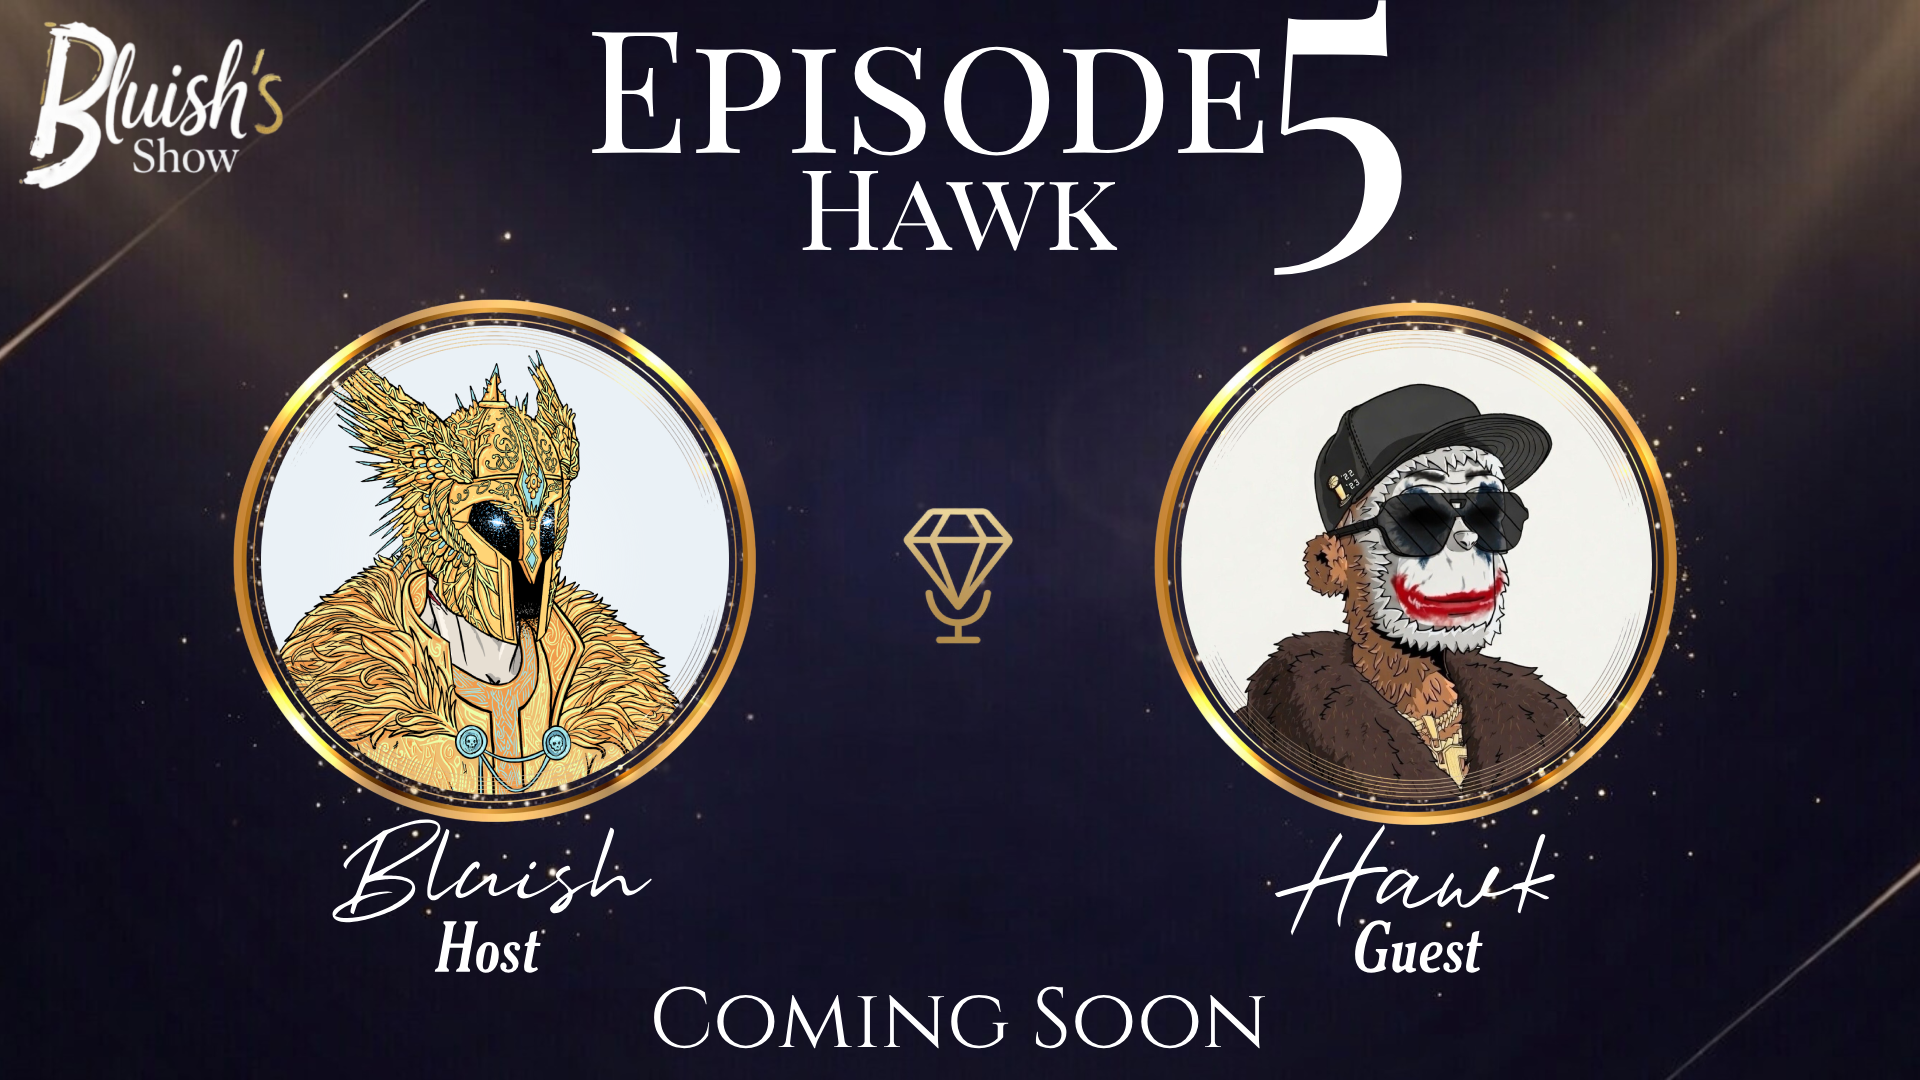
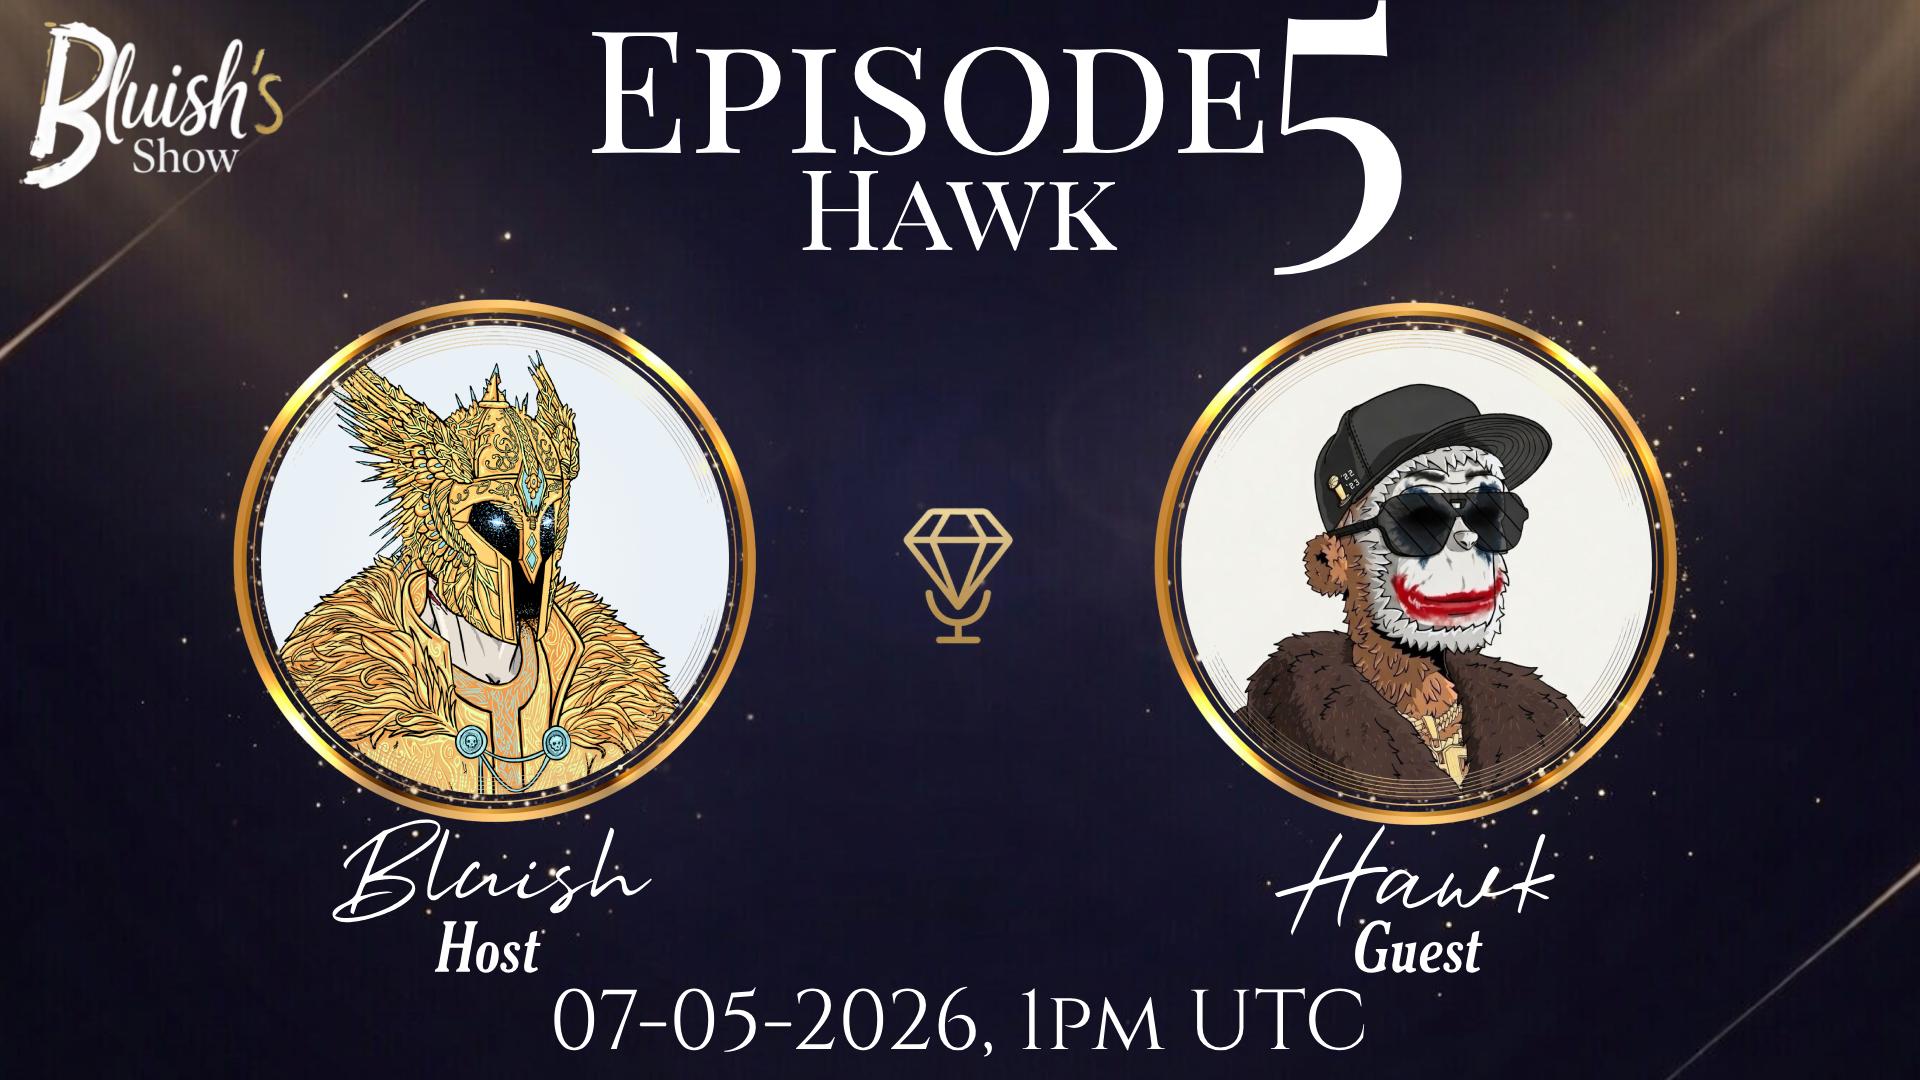
done

Changed region(s): [[0.2812, 0.9167, 0.7188, 0.9778]]

diff --git a/episode5.html b/episode5.html
@@ -1,0 +1,203 @@
+<!DOCTYPE html>
+<html lang="en">
+<head>
+<meta charset="UTF-8" />
+<meta name="viewport" content="width=device-width, initial-scale=1.0" />
+<title>Episode 5 - The Hawk | Bluish's Show</title>
+
+<meta name="description" content="Bluish sits down with Hawk — diving into humor, identity, NFTs, art, and why showing up consistently matters more than anything in Web3.">
+
+<meta property="og:title" content="Episode 5 – The Hawk | Bluish's Show">
+<meta property="og:description" content="Hawk talks about playing a character online, his journey through art and NFTs, and how humor + consistency built his presence.">
+<meta property="og:type" content="article">
+<meta property="og:image" content="templates/episode5.jpg">
+
+<meta name="twitter:card" content="summary_large_image">
+<meta name="twitter:title" content="Episode 5 – The Hawk | Bluish's Show">
+<meta name="twitter:description" content="From art studios to crypto Twitter — Hawk breaks down humor, identity, and building real connections in Web3.">
+
+<link href="https://fonts.googleapis.com/css2?family=Playfair+Display:wght@500;700&family=Inter:wght@300;400;600&display=swap" rel="stylesheet">
+
+<style>
+:root {
+  --navy:#100e24;
+  --gold:#D4AF37;
+  --light:#F2F2F2;
+  --card:#19163a;
+}
+
+body { font-family:'Inter',sans-serif; background:var(--navy); color:var(--light); line-height:1.6; margin:0; }
+.container { width:90%; max-width:1200px; margin:auto; padding:50px 0; }
+header h1 { font-family:'Playfair Display', serif; font-size:3rem; margin-bottom:15px; }
+p { font-size:1.3rem; opacity:0.85; margin-bottom:15px; }
+#Ep { font-size:1.5rem; font-style: italic; }
+img { max-width:60%; border-radius:12px; margin:20px auto; display:block; }
+
+.button {
+  display:inline-block;
+  padding:12px 28px;
+  border:2px solid var(--gold);
+  color:var(--gold);
+  text-decoration:none;
+  font-weight:600;
+  transition:0.3s ease;
+  margin-top:5px;
+}
+.button:hover { background-color:var(--gold); color:var(--navy); }
+
+.home-fixed {
+  position: fixed; top: 20px; left: 20px;
+  padding: 8px 18px;
+  border: 2px solid var(--gold);
+  color: var(--gold);
+  text-decoration: none;
+  font-weight: 600;
+  border-radius: 30px;
+}
+.home-fixed:hover { background: var(--gold); color: var(--navy); }
+
+section { margin-top:50px; }
+section h2 {
+  font-family:'Playfair Display', serif;
+  font-size:2rem;
+  margin-bottom:15px;
+  border-bottom:1px solid var(--gold);
+  display:inline-block;
+  padding-bottom:5px;
+}
+
+.highlight-card {
+  background: var(--card);
+  padding:15px;
+  border-radius:10px;
+  margin-bottom:10px;
+  border-left: 4px solid var(--gold);
+}
+
+blockquote {
+  border-left: 3px solid var(--gold);
+  padding-left:15px;
+  font-style: italic;
+  margin:10px 0;
+  color:#ddd;
+}
+
+footer {
+  text-align: center;
+  padding: 40px 0 20px;
+  opacity: 0.8;
+  font-size:0.9rem;
+}
+
+audio { width:100%; margin-top:20px; }
+
+#guest {
+  width: 300px;
+  height: 300px;
+  object-fit: cover;
+  border-radius: 50%;
+}
+</style>
+</head>
+
+<body>
+
+<a href="index.html" class="home-fixed">Home</a>
+
+<div class="container">
+
+<header>
+  <h1>Episode 5 – The Hawk</h1>
+</header>
+
+<img src="./templates/episode5.png" alt="Episode Cover">
+
+<p id="Ep">
+  Hawk is one of those personalities you don’t really forget. Part character, part chaos, part genuinely thoughtful — in this episode we talk about where that energy comes from, his background in the art world, how he found NFTs, and why humor and consistency ended up being his biggest edge.
+</p>
+
+<a href="https://creators.spotify.com/pod/profile/bluishs-show4/episodes/Bluishs-Show--Episode-5---The-Hawk-e3j3g1c/a-acl2rv4" class="button" target="_blank">Listen Now on Spotify</a>
+
+<audio controls>
+  <source src="./episodesmp3/episode_5.mp3" type="audio/mpeg">
+</audio>
+
+<section>
+  <h2>About Hawk</h2>
+<p>
+  Hawk comes from a background in fine art, public installations, and managing creative teams — long before crypto. After years working in museums, studios, and large-scale art projects, he eventually found NFTs through a friend and never really left.
+</p>
+
+<p>
+  What makes him stand out isn’t just what he does — it’s how he shows up. On the timeline and in Spaces, Hawk leans fully into humor, playing a slightly exaggerated version of himself. But behind that is someone who genuinely values community, consistency, and real connections.
+</p>
+
+<p>
+  Whether he’s making AI memes, hosting shows, or just messing around with friends, there’s always a balance between chaos and intention — and that’s what makes him interesting.
+</p>
+</section>
+
+<section>
+  <h2>Episode Highlights</h2>
+
+<div class="highlight-card"><strong>00:00 – </strong> Meeting Hawk & first impressions</div>
+<div class="highlight-card"><strong>04:00 – </strong> “I play a character” — what that actually means</div>
+<div class="highlight-card"><strong>08:30 – </strong> Hawk IRL vs Hawk online</div>
+<div class="highlight-card"><strong>13:00 – </strong> Growing up in the arts & managing creative teams</div>
+<div class="highlight-card"><strong>18:00 – </strong> Discovering NFTs through “pixel penguins”</div>
+<div class="highlight-card"><strong>24:00 – </strong> Finding a home in DeGods</div>
+<div class="highlight-card"><strong>30:00 – </strong> Humor, memes, and fast reactions on Twitter</div>
+<div class="highlight-card"><strong>36:00 – </strong> Getting deep into AI content creation</div>
+<div class="highlight-card"><strong>44:00 – </strong> Why consistency + humor works in Web3</div>
+<div class="highlight-card"><strong>52:00 – </strong> Online vs real-life connections</div>
+<div class="highlight-card"><strong>58:00 – </strong> Advice to his younger self</div>
+
+</section>
+
+<section>
+  <h2>Key Quotes</h2>
+
+<blockquote>"I play a character… but it’s still me, just turned up."</blockquote>
+
+<blockquote>"Consistency plus humor — that’s the formula."</blockquote>
+
+<blockquote>"Nothing I do is meant to hurt people. It’s all part of the fun."</blockquote>
+
+<blockquote>"You’ve got to show up. Opportunities come from just being there."</blockquote>
+
+<blockquote>"Online is one thing, but the real connections — those are everything."</blockquote>
+
+<blockquote>"We’re all just kind of figuring it out… might as well enjoy it."</blockquote>
+
+</section>
+<!--
+<section>
+  <h2>Article</h2>
+
+  <p>
+    I also broke this episode down on X — covering Hawk’s mindset, his approach to humor, and why consistency matters more than most people think.
+  </p>
+
+  <a href="#" target="_blank" class="button">
+    Read Full Article on X
+  </a>
+
+</section>
+-->
+<section>
+  <h2>Connect with Hawk</h2>
+  <div style="text-align:center;">
+    <img id="guest" src="./guests_pfps/hawk.pn.png" alt="Hawk Profile">
+    <br><br>
+    <a href="https://x.com/theHAWKx" target="_blank" class="button">X</a>
+  </div>
+</section>
+
+</div>
+
+<footer>
+  <p>&copy; 2026 Bluish's Show — All Rights Reserved</p>
+</footer>
+
+</body>
+</html>

diff --git a/index.html b/index.html
@@ -91,10 +91,7 @@
   <div class="episode-row upcoming">
         <div class="card-wrapper">
       <div class="card upcoming-card">
-        <img src="./templates/episode5.png" alt="Episode 4" loading="lazy">
-        <h3>Episode 5 - Hawk's Story</h3>
-        <p>A dive into the Story of Hawk</p>
-        <a href="episode4.html" class="button disabled">Coming Soon</a>
+
 
 
 
@@ -126,6 +123,15 @@
    <div class="episode-row-wrapper">
     <button class="scroll-btn left">&#9664;</button>
      <div class="episode-row completed">
+
+        <div class="card-wrapper">
+        <div class="card">
+        <img src="./templates/episode5.png" alt="Episode 5" loading="lazy">
+        <h3>Episode 5 - The Hawk</h3>
+        <p>A dive into the Story of Hawk</p>
+        <a href="episode5.html" class="button">View</a>
+</div>
+</div>
 
               
         <div class="card-wrapper">